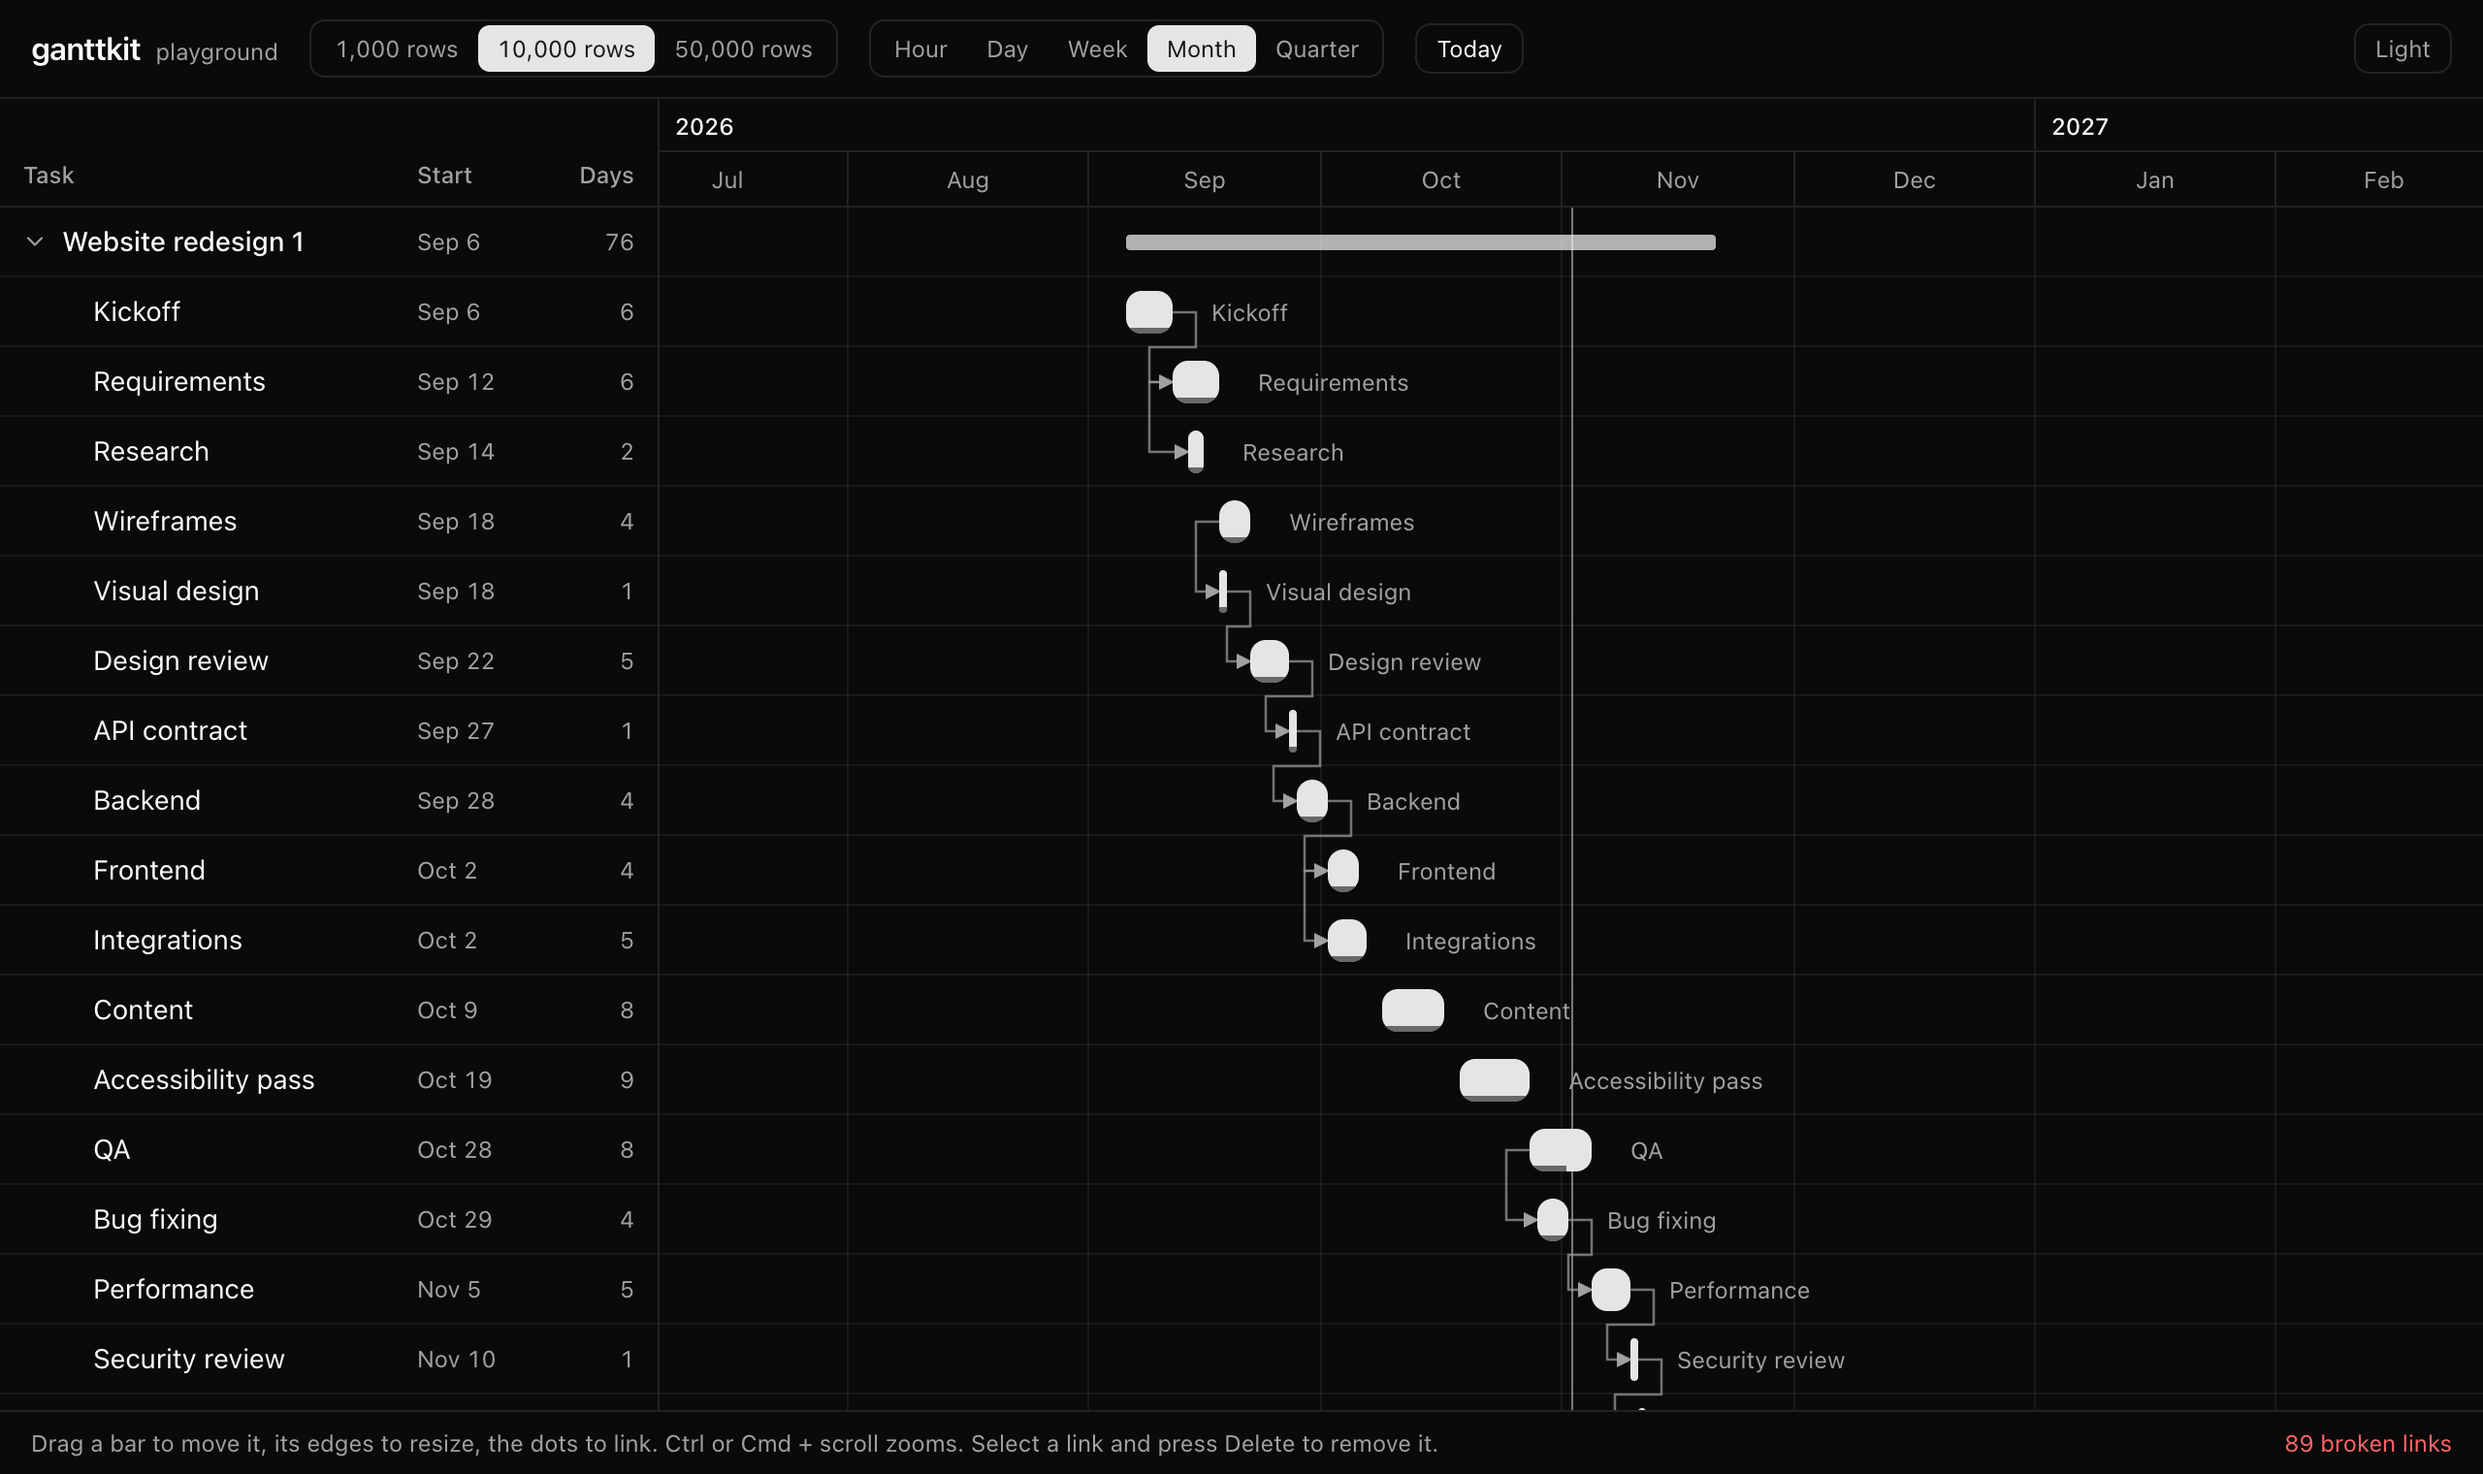
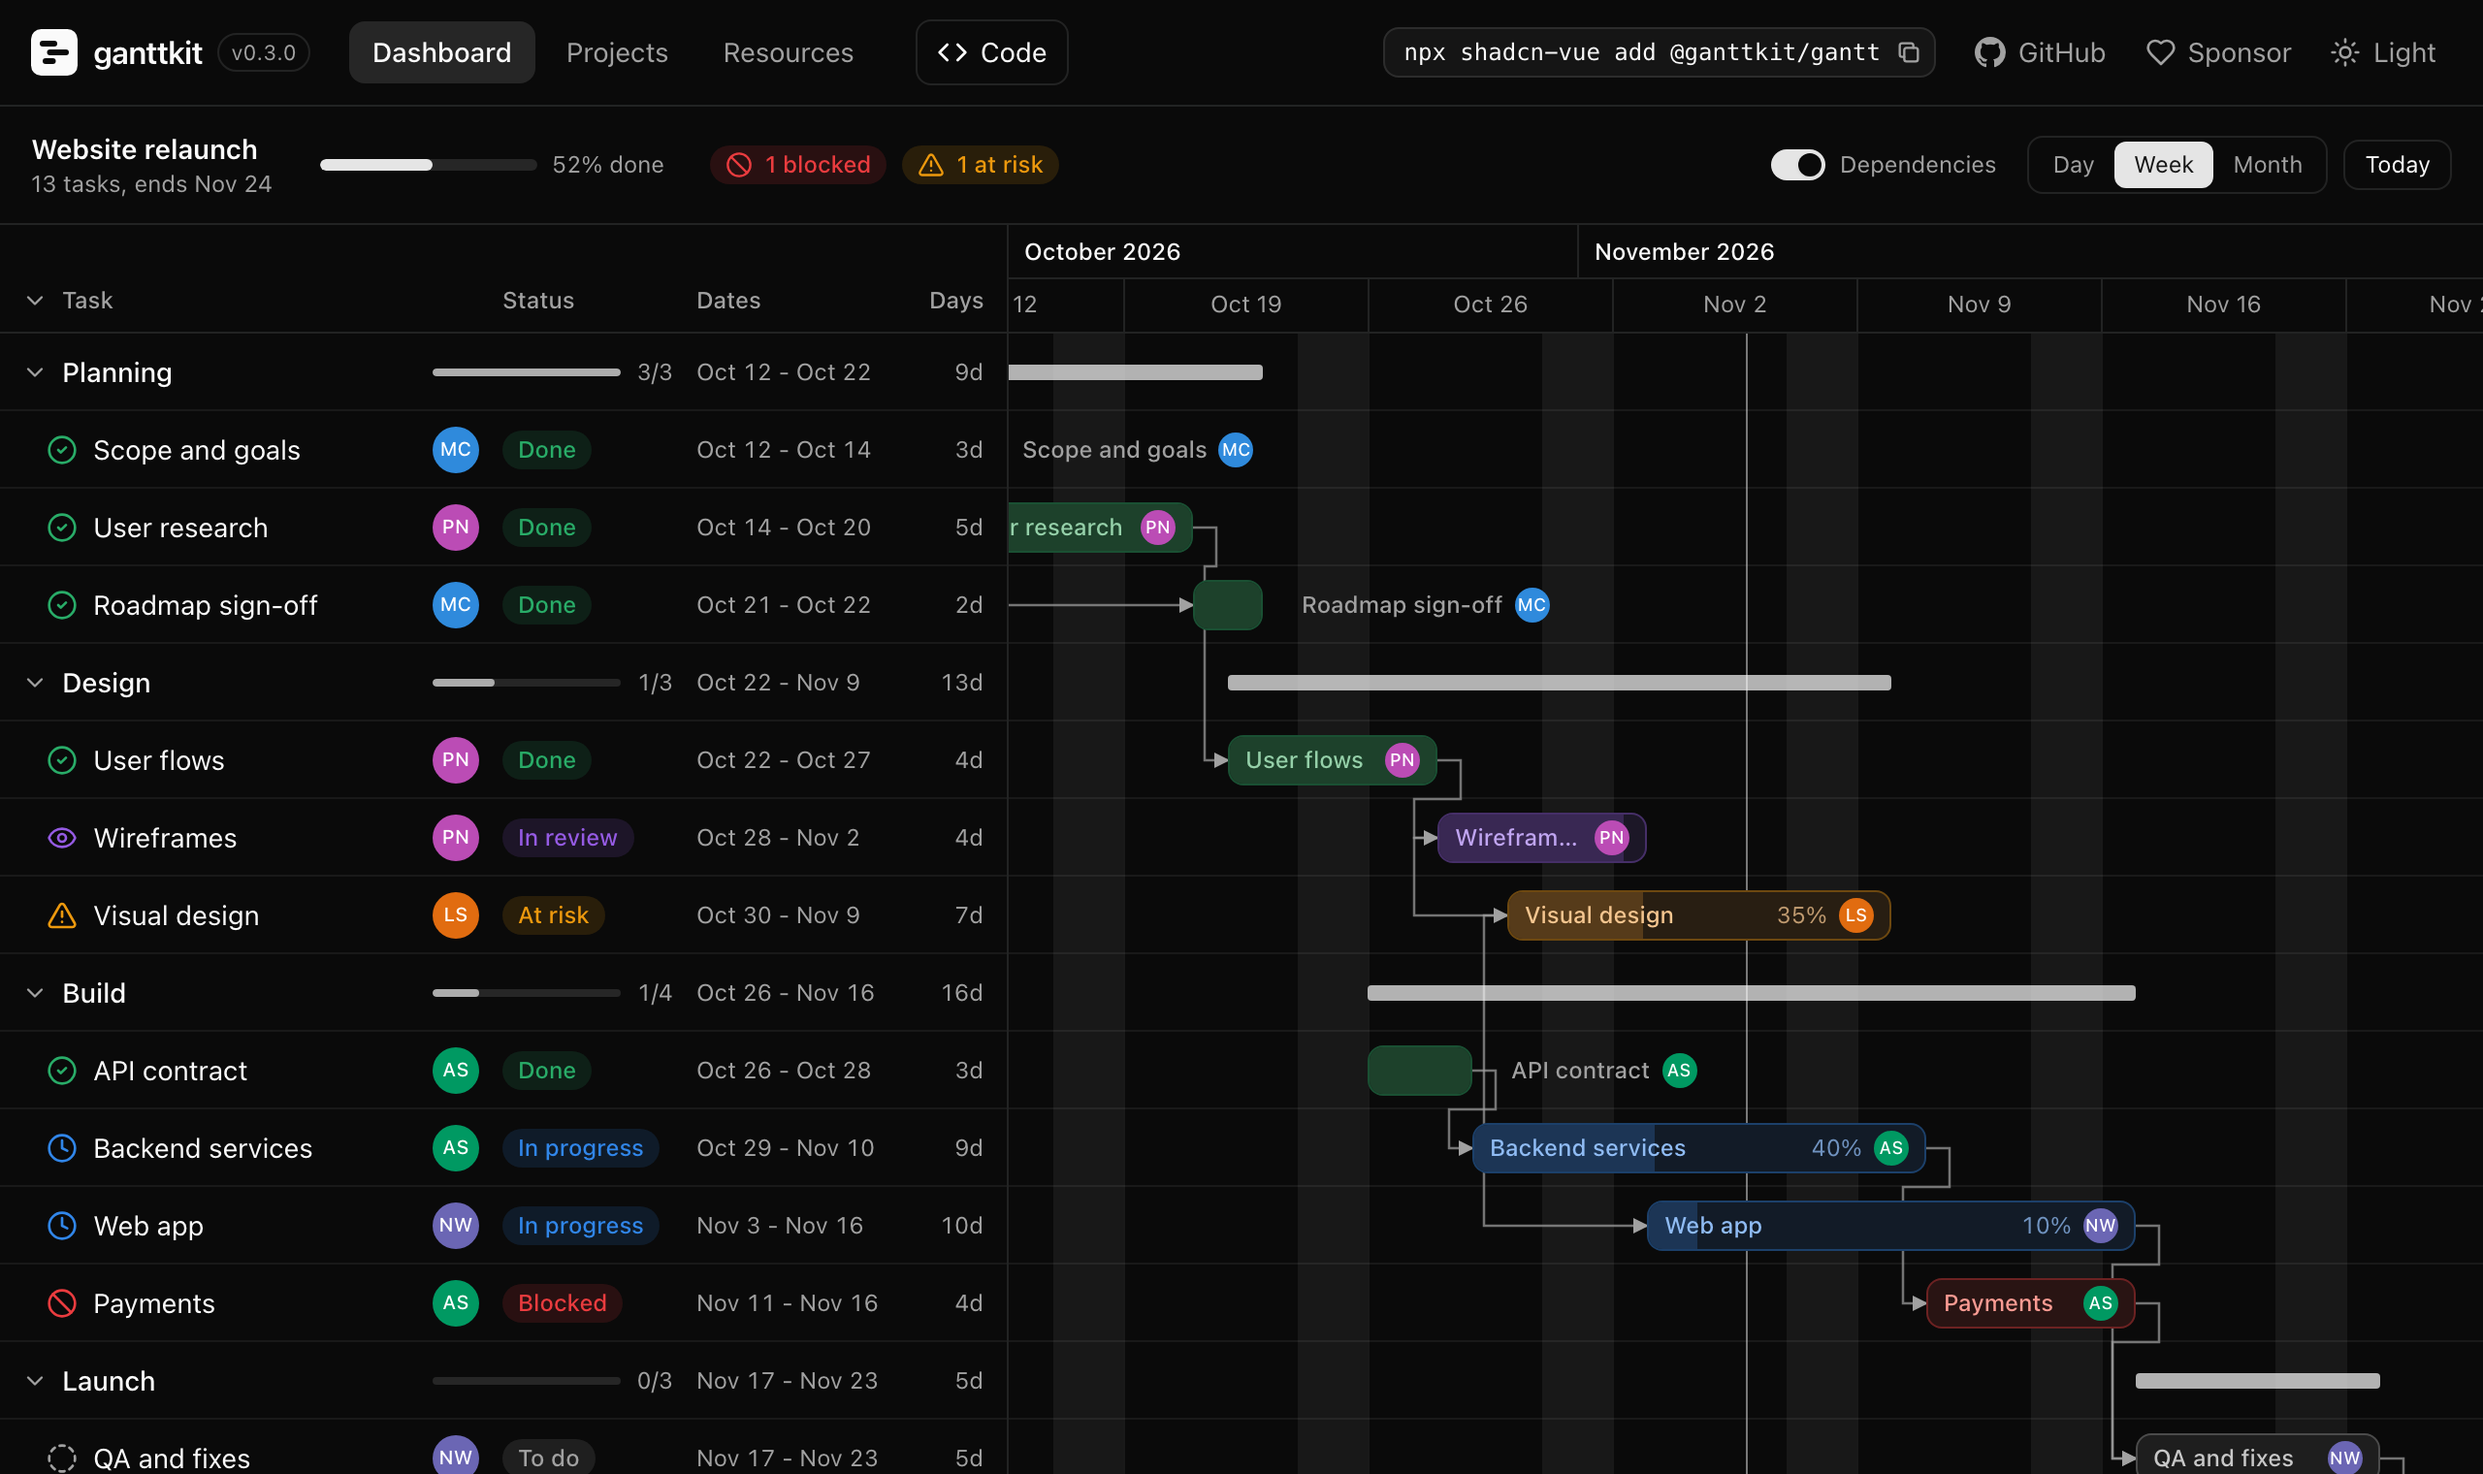
Docs: new demo GIF and screenshots from the dashboard
record:gif now starts on the dashboard (auto-shift, zoom, the code panel), then scrolls 10 000 projects rows and ends in the dark resource view with the right-click menu and a drag. 12 fps and 128 colors keep the GIF near 5 MB. The screenshots show the dashboard in both themes.

diff --git a/apps/playground/scripts/record-gif.ts b/apps/playground/scripts/record-gif.ts
@@ -1,14 +1,15 @@
-// Records docs/demo.gif from the playground. Light theme, projects: auto-shift, a new link, zoom and
-// a fast scroll. Then dark theme, resources: tooltip, the right-click menu and a drag to another person.
+// Records docs/demo.gif from the playground. Light theme, dashboard: auto-shift, zoom and the code panel.
+// Projects: zoom out and a fast scroll through 10 000 rows. Then dark theme, resources: the right-click
+// menu and a drag to another person.
 // Usage: pnpm build && pnpm preview, then in another terminal: pnpm record:gif
-// DEMO_URL=https://ktimur91.github.io/ganttkit/?theme=light&zoom=week records the live demo instead.
+// DEMO_URL=https://ktimur91.github.io/ganttkit/?theme=light records the live demo instead.
 import { execFileSync } from 'node:child_process'
 import { mkdtempSync, readdirSync, rmSync } from 'node:fs'
 import { tmpdir } from 'node:os'
 import { join } from 'node:path'
 import { type Locator, type Page, chromium } from '@playwright/test'
 
-const URL = process.env.DEMO_URL ?? 'http://localhost:5281/?theme=light&zoom=week'
+const URL = process.env.DEMO_URL ?? 'http://localhost:5281/?theme=light'
 const OUT = new globalThis.URL('../../../docs/demo.gif', import.meta.url).pathname
 const SIZE = { width: 1280, height: 720 }
 
@@ -55,19 +56,6 @@ async function barBox(page: Page, id: string) {
   return box
 }
 
-/** Draggable bars inside the timeline, top to bottom. */
-function visibleBars(page: Page) {
-  return page.evaluate(() =>
-    [...document.querySelectorAll<HTMLElement>('[data-gantt-item].cursor-grab')]
-      .map((el) => {
-        const box = el.getBoundingClientRect()
-        return { id: el.dataset.ganttItem!, left: box.left, right: box.right, top: box.top, width: box.width }
-      })
-      .filter((bar) => bar.left > 380 && bar.right < innerWidth - 60 && bar.top > 120 && bar.top < innerHeight - 80)
-      .sort((a, b) => a.top - b.top),
-  )
-}
-
 async function main() {
   const videoDir = mkdtempSync(join(tmpdir(), 'ganttkit-gif-'))
   const browser = await chromium.launch()
@@ -75,47 +63,62 @@ async function main() {
   await context.addInitScript(CURSOR)
   const page = await context.newPage()
   await page.goto(URL)
-  await page.locator('[data-gantt-item="p0t2"]').waitFor()
-  await page.mouse.move(SIZE.width / 2, SIZE.height / 2)
-  mouse = { x: SIZE.width / 2, y: SIZE.height / 2 }
+  await page.locator('[data-gantt-item="backend"]').waitFor()
+  // Start in the empty part of the toolbar, so no tooltip is open on the first frame.
+  mouse = { x: SIZE.width * 0.6, y: 84 }
+  await page.mouse.move(mouse.x, mouse.y)
   const started = Date.now()
-  await pause(page, 700)
+  await pause(page, 1200)
 
-  // Auto-shift: move Research by four days, the tasks linked after it move along.
-  let box = await barBox(page, 'p0t2')
-  await glide(page, box.x + box.width / 2, box.y + box.height / 2)
-  await pause(page, 250)
+  // Dashboard, auto-shift: move Backend services by three days, the tasks after it move along.
+  let box = await barBox(page, 'backend')
+  await glide(page, box.x + 40, box.y + box.height / 2)
+  await pause(page, 500)
   await page.mouse.down()
-  await glide(page, box.x + box.width / 2 + 4 * 18, box.y + box.height / 2, 40)
-  await pause(page, 700)
+  await glide(page, box.x + 40 + 3 * 18, box.y + box.height / 2, 40)
+  await pause(page, 800)
   await page.mouse.up()
-  await pause(page, 600)
+  await pause(page, 700)
 
-  // Draw a dependency from one bar's end dot to a bar a few rows down.
-  const bars = await visibleBars(page)
-  const fromBar = bars.find((bar) => bar.width >= 30)
-  const toBar = bars.find((bar) => fromBar && bar.top > fromBar.top + 60 && bar.left > fromBar.right + 30)
-  if (!fromBar || !toBar) throw new Error(`no bars to link: ${bars.map((bar) => bar.id).join(', ')}`)
-  box = await barBox(page, fromBar.id)
-  await glide(page, box.x + box.width / 2, box.y + box.height / 2)
+  // Zoom out to months and back: the plan stays in view.
+  for (const name of ['Month', 'Week']) {
+    const button = page.getByRole('button', { name, exact: true })
+    await glideTo(page, button)
+    await pause(page, 200)
+    await button.click()
+    await pause(page, 900)
+  }
+
+  // The code of the example, ready to copy.
+  const code = page.getByRole('button', { name: 'Code', exact: true })
+  await glideTo(page, code)
   await pause(page, 200)
-  await glideTo(page, page.locator(`[data-gantt-item="${fromBar.id}"]`).getByRole('button', { name: 'Link from end' }), 10)
-  const links = page.locator('[data-slot="gantt"] svg g')
-  const linkCount = await links.count()
-  await page.mouse.down()
-  const to = await barBox(page, toBar.id)
-  await glide(page, to.x + 6, to.y + to.height / 2, 30)
-  await page.mouse.up()
+  await code.click()
+  await page.locator('.code .shiki').waitFor()
   await pause(page, 600)
-  if ((await links.count()) !== linkCount + 1) throw new Error('the link was not created')
+  const copy = page.getByRole('button', { name: 'Copy', exact: true })
+  await glideTo(page, copy)
+  await pause(page, 200)
+  await copy.click()
+  await pause(page, 900)
+  const close = page.getByRole('button', { name: 'Close code' })
+  await glideTo(page, close)
+  await close.click()
+  await pause(page, 400)
 
-  // Zoom out with Ctrl + wheel, scroll fast through 10 000 rows, zoom back in.
+  // Projects: zoom out with Ctrl + wheel, scroll fast through 10 000 rows, zoom back in.
+  const projects = page.getByRole('tab', { name: 'Projects' })
+  await glideTo(page, projects)
+  await pause(page, 200)
+  await projects.click()
+  await page.locator('[data-gantt-item="p0t2"]').waitFor()
+  await pause(page, 700)
   await glide(page, SIZE.width * 0.65, SIZE.height * 0.55)
   await page.keyboard.down('Control')
   await page.mouse.wheel(0, 100)
   await page.keyboard.up('Control')
-  await pause(page, 700)
-  for (let i = 0; i < 18; i++) {
+  await pause(page, 600)
+  for (let i = 0; i < 12; i++) {
     await page.mouse.wheel(0, 900)
     await pause(page, 40)
   }
@@ -126,23 +129,14 @@ async function main() {
   await pause(page, 600)
 
   // Dark theme, then the resource view.
-  for (const name of ['Dark', 'Resources']) {
-    const button = page.getByRole('button', { name, exact: true })
+  for (const button of [page.getByRole('button', { name: 'Dark', exact: true }), page.getByRole('tab', { name: 'Resources' })]) {
     await glideTo(page, button)
     await pause(page, 200)
     await button.click()
     await pause(page, 600)
   }
   await page.locator('[data-gantt-item="hotfix"]').waitFor()
-  await pause(page, 300)
-
-  // Hover a booking for its tooltip.
-  const hover = (await visibleBars(page)).find((bar) => bar.id !== 'hotfix' && bar.width > 50 && bar.top > 220)
-  if (hover) {
-    box = await barBox(page, hover.id)
-    await glide(page, box.x + Math.min(box.width / 2, 40), box.y + box.height / 2)
-    await pause(page, 1300)
-  }
+  await pause(page, 600)
 
   // The hotfix double-books the first person, Alex: right-click it and give it to someone free.
   box = await barBox(page, 'hotfix')
@@ -209,10 +203,10 @@ async function main() {
 
   const [video] = readdirSync(videoDir)
   const input = join(videoDir, video!)
-  // Skip the page load at the start, two-pass palette for clean flat colors.
+  // Skip the page load at the start, two-pass palette for clean flat colors. 128 colors keep it near 5 MB.
   const skip = Math.max(0, (await durationOf(input)) - seconds).toFixed(2)
-  const filters = 'fps=15,scale=960:-1:flags=lanczos'
-  execFileSync('ffmpeg', ['-y', '-loglevel', 'error', '-ss', skip, '-i', input, '-vf', `${filters},palettegen=stats_mode=diff`, join(videoDir, 'palette.png')])
+  const filters = 'fps=12,scale=900:-1:flags=lanczos'
+  execFileSync('ffmpeg', ['-y', '-loglevel', 'error', '-ss', skip, '-i', input, '-vf', `${filters},palettegen=max_colors=128:stats_mode=diff`, join(videoDir, 'palette.png')])
   execFileSync('ffmpeg', ['-y', '-loglevel', 'error', '-ss', skip, '-i', input, '-i', join(videoDir, 'palette.png'), '-lavfi', `${filters}[x];[x][1:v]paletteuse=dither=none:diff_mode=rectangle`, OUT])
   rmSync(videoDir, { recursive: true, force: true })
   console.log(`wrote ${OUT}`)

diff --git a/README.md b/README.md
@@ -13,7 +13,7 @@ Gantt chart for Vue 3 that lives in your codebase.
 - **Copy-in components** in the shadcn-vue style: `npx shadcn-vue add` puts plain `.vue` files into `components/ui/gantt`. Restyle them with Tailwind, change the markup, keep the core updatable from npm.
 - **Fast with big plans**: 50 000 rows render about 40 rows and their bars. Scrolling recomputes the window only when it crosses a chunk of rows.
 
-![Auto-shift, linking, Ctrl + wheel zoom and a fast scroll through 10 000 rows, then the dark theme and the resource view with a tooltip, the right-click menu and a drag to another person](docs/demo.gif)
+![The dashboard example: auto-shift, zoom and the code panel. Then 10 000 rows with Ctrl + wheel zoom and a fast scroll, and the resource view in the dark theme with the right-click menu and a drag to another person](docs/demo.gif)
 
 ## Features
 
